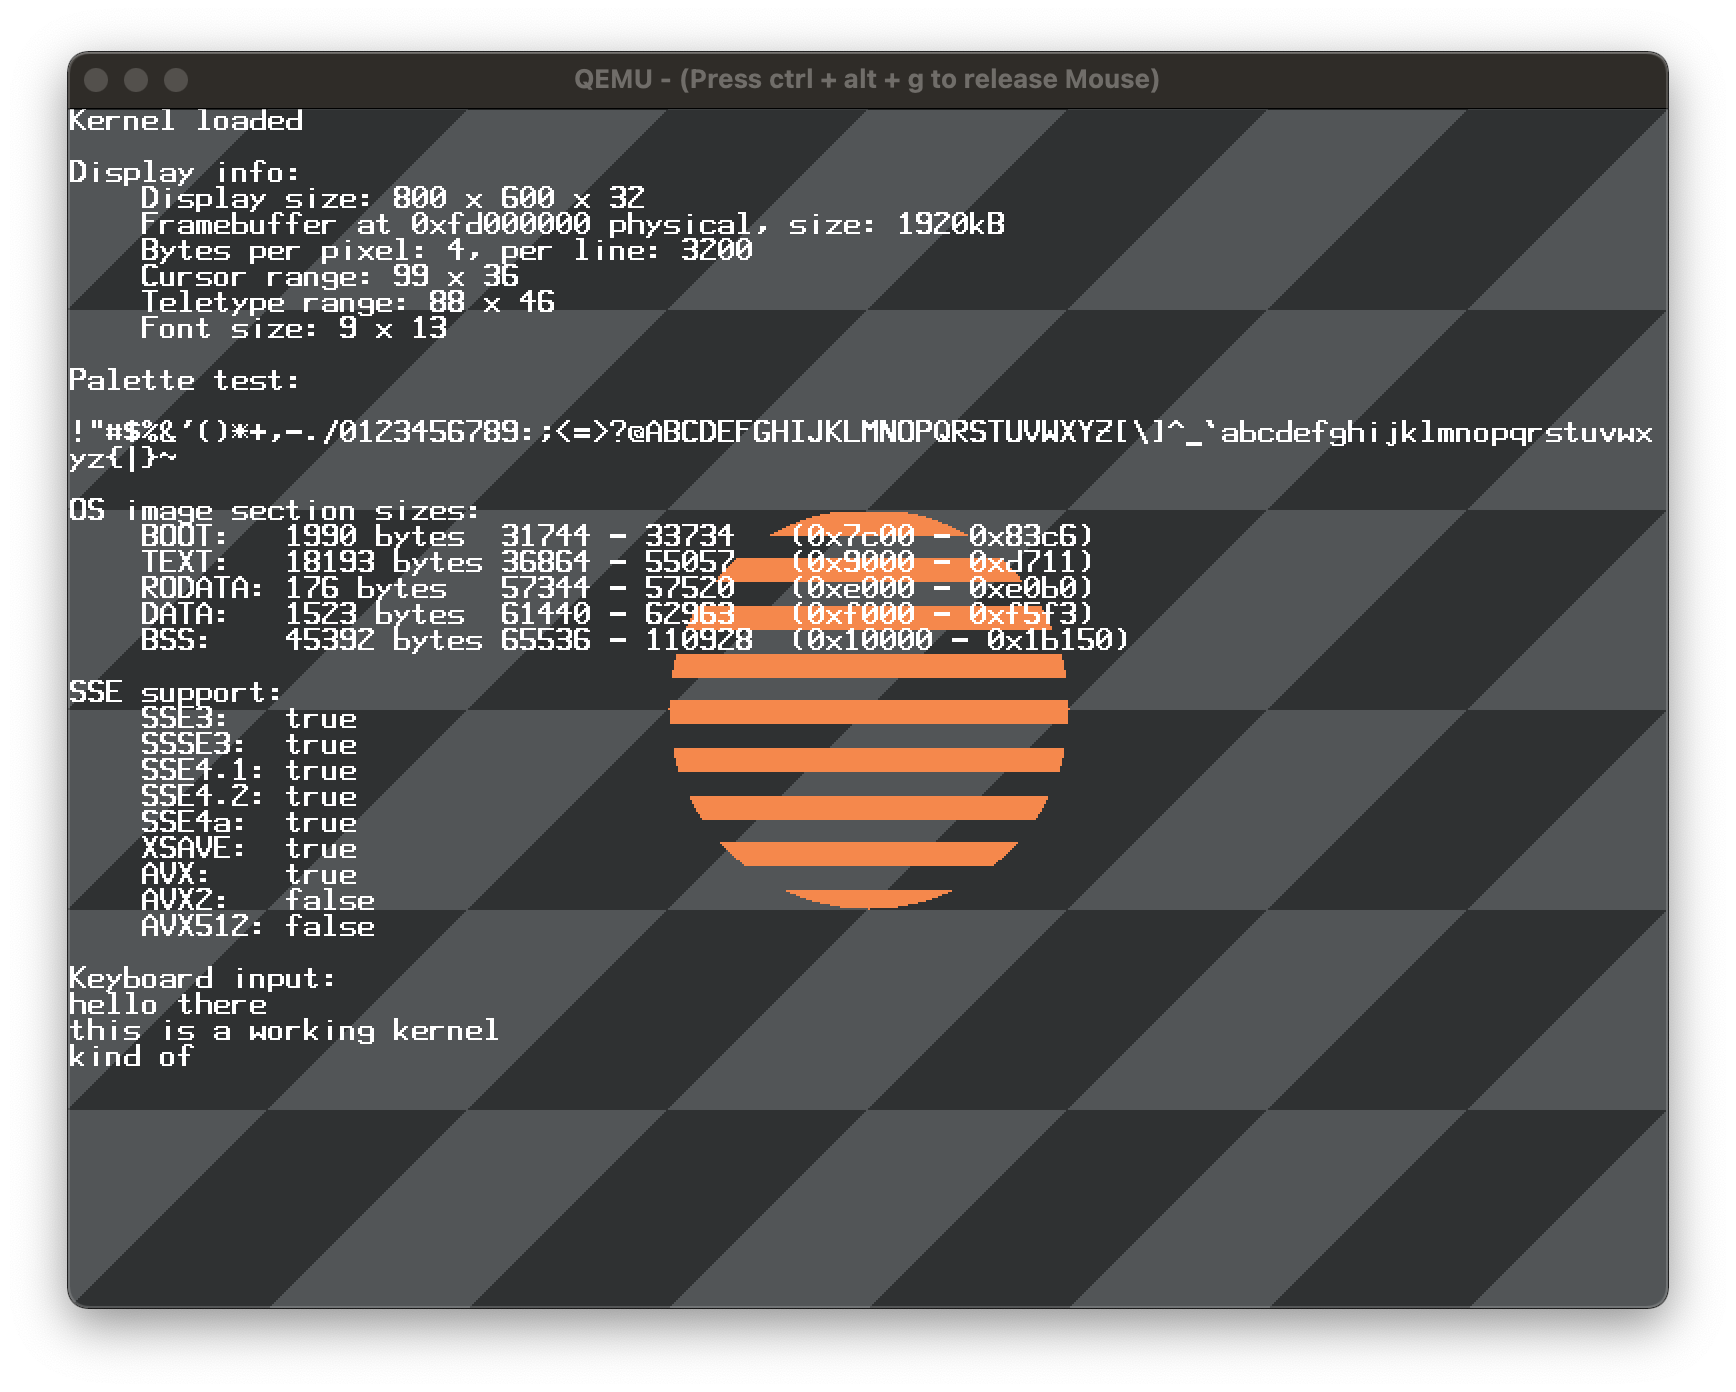
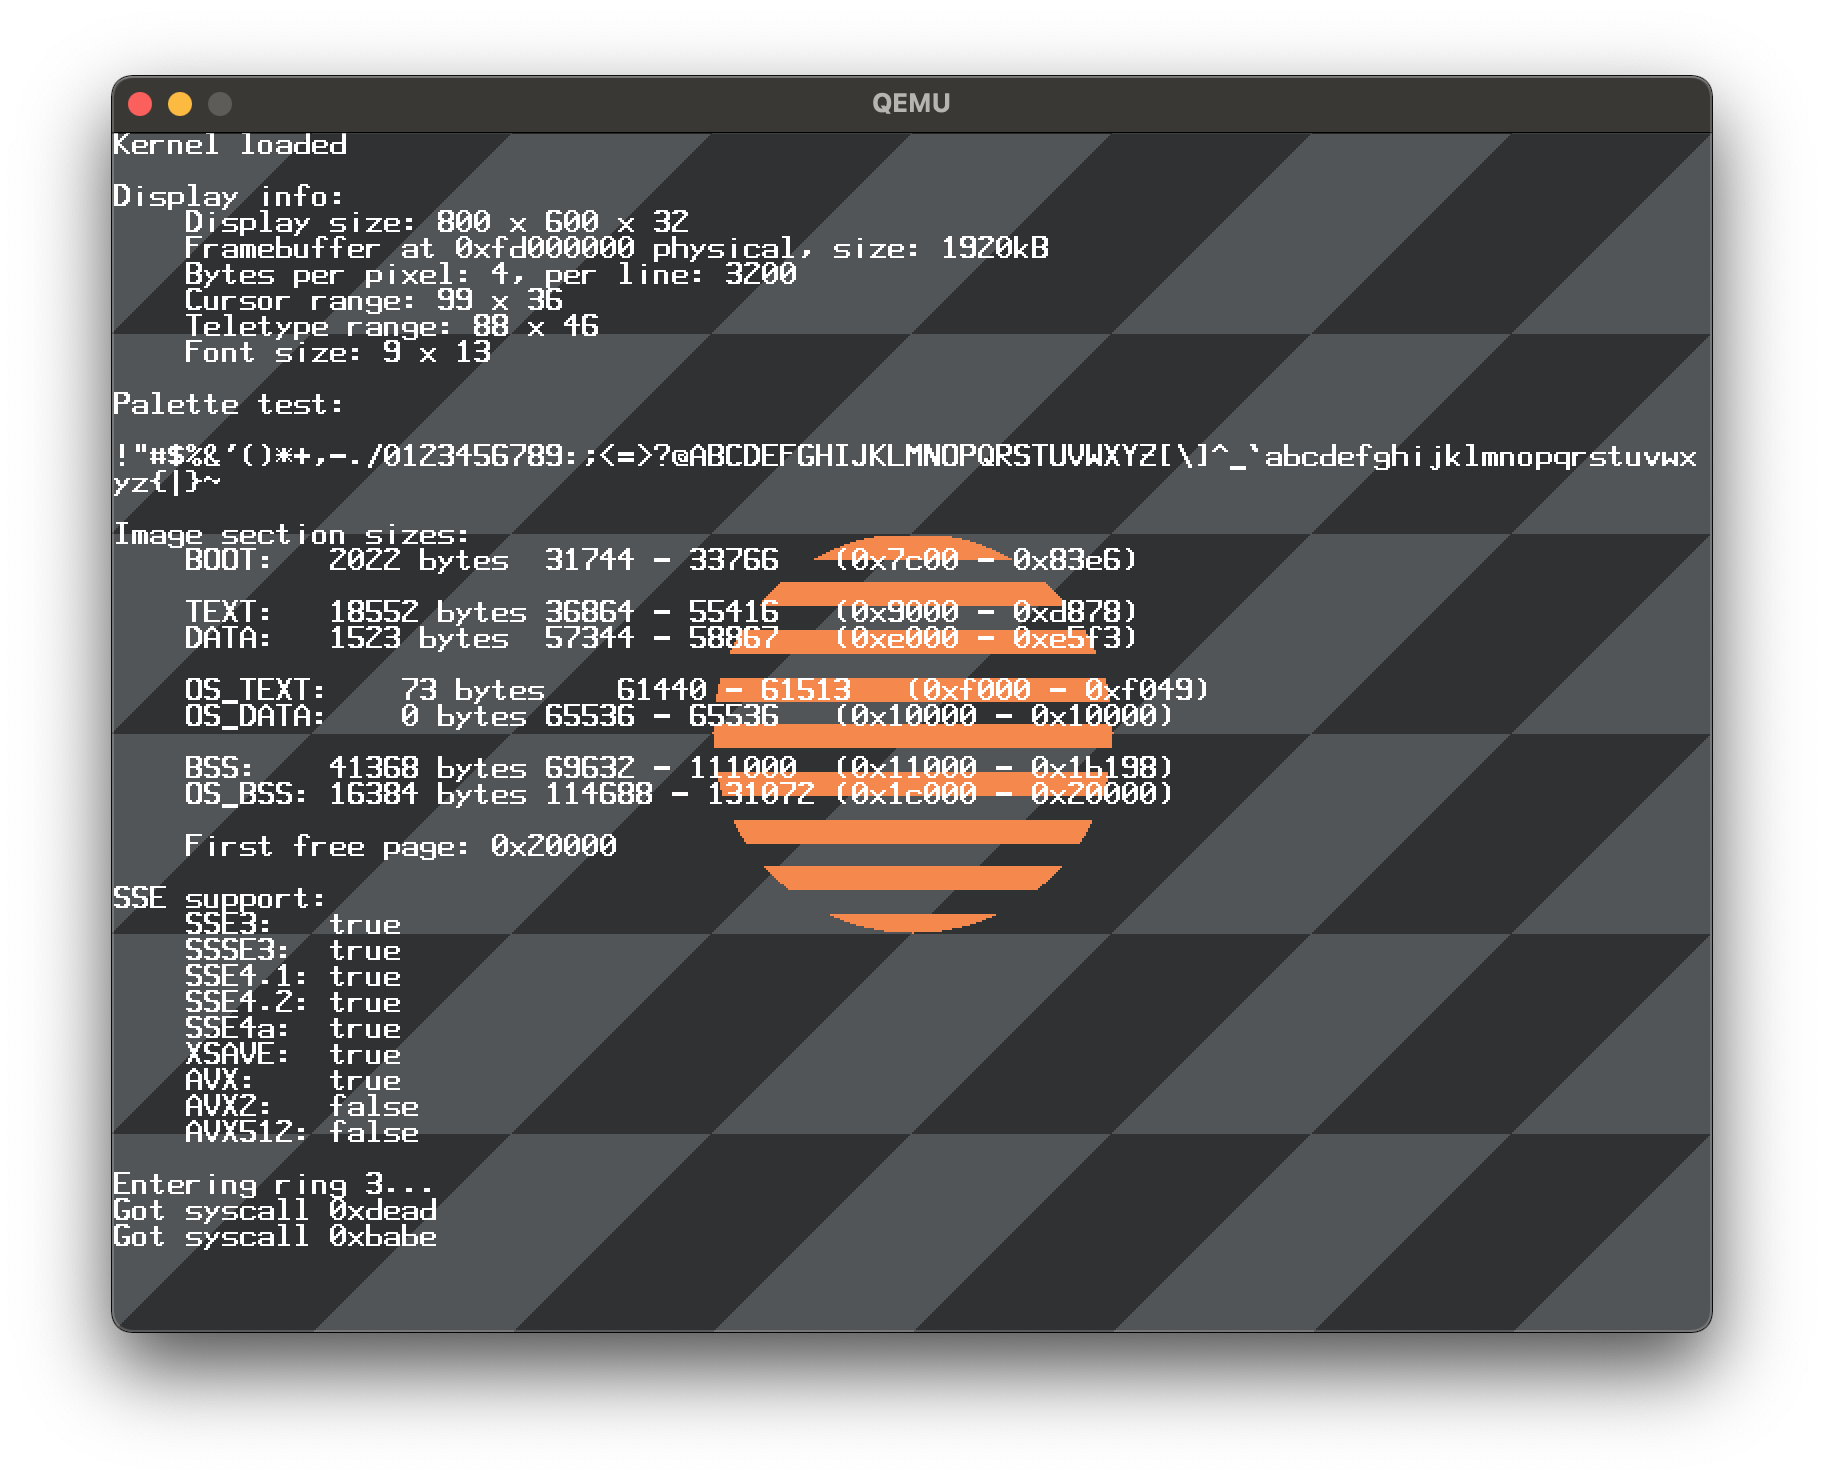
Ring 3 OS, kernel syscall handling

diff --git a/src/kernel/src/Interrupts.c b/src/kernel/src/Interrupts.c
@@ -52,9 +52,9 @@ const char *exceptions[NUM_EXCEPTIONS] = {
 void isr_handler(const ISR_Frame regs) {
     // Print exception type
     if (regs.int_no < NUM_EXCEPTIONS) {
-        log("Exception: %s\n", exceptions[regs.int_no]);
+        log("\nException: %s\n", exceptions[regs.int_no]);
     } else {
-        log("Unknown exception: %lu\n", regs.int_no);
+        log("\nUnknown exception: %lu\n", regs.int_no);
     }
 
     // Special handing for some exceptions
@@ -114,9 +114,10 @@ void isr_handler(const ISR_Frame regs) {
     log("R8: %lx | R9: %lx | R10: %lx | R11: %lx\n", regs.r8, regs.r9, regs.r10, regs.r11);
     log("R12: %lx | R13: %lx | R14: %lx | R15: %lx\n", regs.r12, regs.r13, regs.r14, regs.r15);
 
-    log("Stack trace:\n<TOP> ");
+    log("Stack trace:\n");
+    uint64_t* stack_top = (uint64_t *) (uintptr_t) regs.sp;
     for (int i = 0; i < 10; i++) {
-        log("| %lx ", ((uint64_t *) (uintptr_t) regs.sp)[i]);
+        log("%p | %lx\n", (void*)(stack_top + i), stack_top[i]);
     }
 
     while (true);

diff --git a/src/kernel/src/Diagnostics.c b/src/kernel/src/Diagnostics.c
@@ -7,6 +7,8 @@ extern int query_cpu(unsigned int page, int reg_no, int bit);
 
 extern void enable_avx(void);
 
+extern int linker_first_free_page;
+
 void section_info(void) {
 
 #define PRINT_SECTION(X) \
@@ -15,12 +17,18 @@ void section_info(void) {
     (unsigned long)&_##X##_END_ - (unsigned long)&_##X##_START_, \
     (unsigned long)(&_##X##_START_), (unsigned long)(&_##X##_END_), (void*)&_##X##_START_, (void*)&_##X##_END_);
 
-    log("OS image section sizes:\n");
+    log("Image section sizes:\n");
     PRINT_SECTION(BOOT)
+    log("\n");
     PRINT_SECTION(TEXT)
-    PRINT_SECTION(RODATA)
     PRINT_SECTION(DATA)
+    log("\n");
+    PRINT_SECTION(OS_TEXT)
+    PRINT_SECTION(OS_DATA)
+    log("\n");
     PRINT_SECTION(BSS)
+    PRINT_SECTION(OS_BSS)
+    log("\n\tFirst free page: %p\n", (void *) &linker_first_free_page);
 }
 
 void sse_info(void) {

diff --git a/src/kernel/src/Kernel.c b/src/kernel/src/Kernel.c
@@ -50,10 +50,7 @@ void kmain() {
 
     enter_user_mode();
 
-    log("Back from ring 3!\n");
-
-    subscribePress(keyPressed);
-    log("\nKeyboard input:\n");
+    log("Back from ring 3 somehow!\n");
 
     // Do not exit from kernel, rather wait for interrupts
     while (true) {

diff --git a/src/kernel/src/syscall.c b/src/kernel/src/syscall.c
@@ -1,0 +1,5 @@
+#include <VGA/VGA.h>
+
+void handle_syscall(unsigned long code) {
+    log("Got syscall %lx\n", code);
+}

diff --git a/src/os/src/Main.c b/src/os/src/Main.c
@@ -1,0 +1,6 @@
+#include <syscall.h>
+
+void os_main(void) {
+    syscall(0xdead);
+    syscall(0xbabe);
+}

diff --git a/src/os/include/syscall.h b/src/os/include/syscall.h
@@ -1,0 +1,5 @@
+#pragma once
+
+#include <stdint.h>
+
+extern void syscall(uint64_t code);

diff --git a/README.md b/README.md
@@ -2,7 +2,7 @@
 
 **Work in progress.**
 
-This repository contains a custom bootloader and an x86_64 kernel, both written from scratch.
+This repository contains a two-stage bootloader, an x86_64 kernel, and a ring 3 OS, all written from scratch.
 
 ![current state](docs/current.png)
 
@@ -44,10 +44,11 @@ to build the image and boot it in QEMU.
     - [ ] Handling page faults
     - [x] Physical memory manager
     - [x] Virtual memory manager
-    - [x] Kernel heap management (`kmalloc`, `kfree`)
-        - [x] Porting [liballoc](https://github.com/blanham/liballoc)
-- Standard library
-    - [ ] Porting an actual libc implementation
+    - [x] Kernel heap management (`kmalloc`, `kfree`) through [liballoc](https://github.com/blanham/liballoc)
+- Operating system
+    - [x] Getting to ring 3
+    - [x] Handling `syscall`
+    - [ ] A functional syscall ABI
 
 # Caveats
 
@@ -72,3 +73,4 @@ codesign -s - --entitlements qemu/app.entitlements --force "$(command -v qemu-sy
 ```
 
 Note that the HVF in QEMU **does not support SSE**. Do not compile with `-O3` if you want to use the `hvf` target.
+This target will be removed in the future, as x86_64 does need SSE2 to be present.
